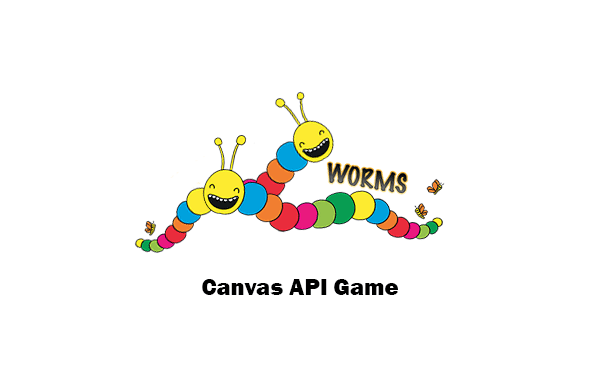
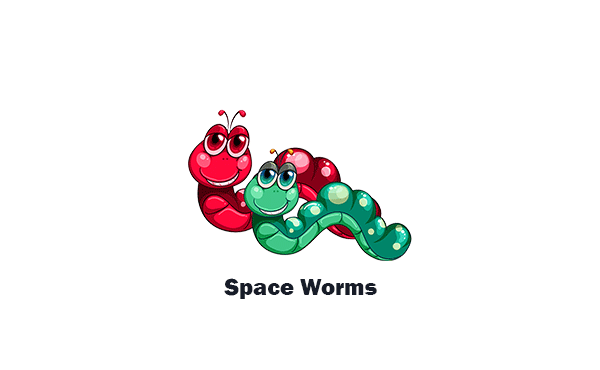
UPDATE

Changed region(s): [[0.21, 0.2378, 0.75, 0.7135], [0.33, 0.7432, 0.66, 0.8027]]

diff --git a/index.html b/index.html
@@ -351,9 +351,9 @@
 
                     </div>
                     <div class="hover-items">
-                        <h3>Canvas API Game - TBA</h3>
+                        <h3>Canvas API Game</h3>
                         <div class="icons">
-                            <a href="#" target="_blank" class="icon">
+                            <a href="https://jkiimala.github.io/spaceWorms" target="_blank" class="icon">
                                 <i class="fab fa-github"></i></a>
                         </div>
                     </div>
